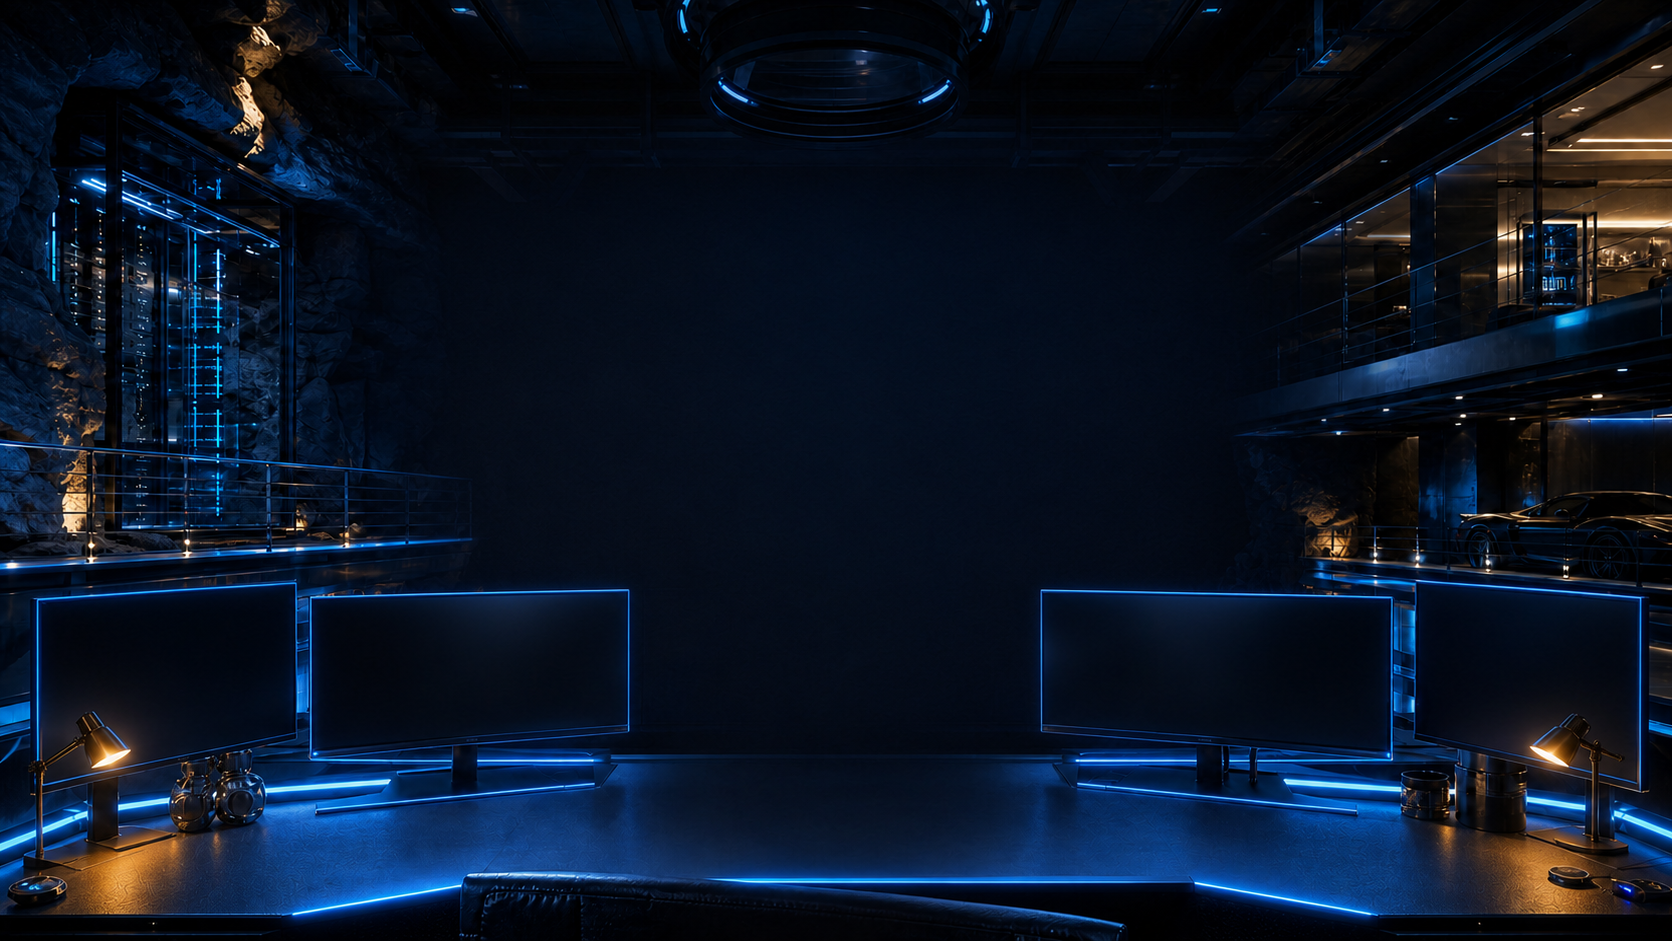
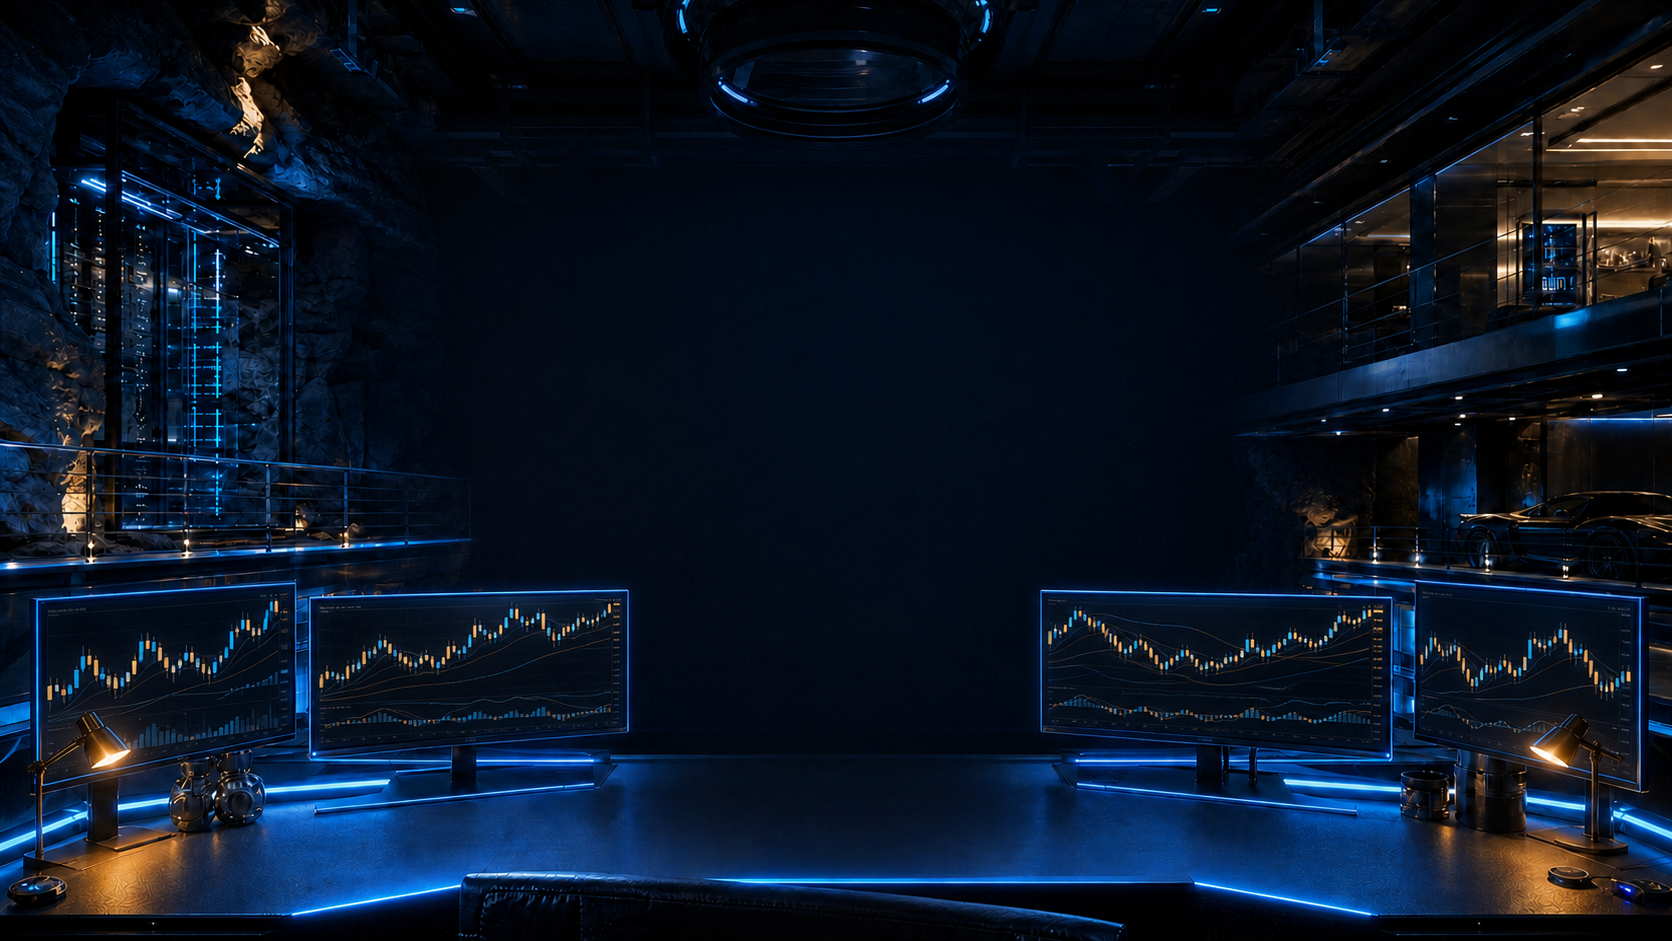
Add files via upload

diff --git a/command-summary.js b/command-summary.js
@@ -6,8 +6,11 @@ const $ = (selector) => document.querySelector(selector);
 const today = new Date().toLocaleDateString("en-CA");
 
 function outcome(trade) {
-  if (trade.trade_status === "Open") return "Open";
-  if (trade.outcome) return trade.outcome;
+  if (String(trade.trade_status || "").trim().toLowerCase() === "open") return "Open";
+  const supplied = String(trade.outcome || "").trim().toLowerCase();
+  if (supplied === "win" || supplied === "small win") return "Win";
+  if (supplied === "loss" || supplied === "small loss") return "Loss";
+  if (supplied === "b/e" || supplied === "be" || supplied === "break even" || supplied === "breakeven") return "B/E";
   if (Number(trade.r_multiple) > 0) return "Win";
   if (Number(trade.r_multiple) < 0) return "Loss";
   return "B/E";
@@ -26,9 +29,9 @@ function render({ missions, trades, projects, content, recoveryLogs, operations,
   if (!target) return;
   const activeMissions = missions.filter((mission) => missionProgress(mission) < 100);
   const priority = activeMissions.find((mission) => mission.priority === "Do now") || activeMissions[0];
-  const closed = trades.filter((trade) => trade.trade_status !== "Open");
-  const wins = closed.filter((trade) => ["Win", "Small win"].includes(outcome(trade))).length;
-  const losses = closed.filter((trade) => ["Loss", "Small loss"].includes(outcome(trade))).length;
+  const closed = trades.filter((trade) => outcome(trade) !== "Open");
+  const wins = closed.filter((trade) => outcome(trade) === "Win").length;
+  const losses = closed.filter((trade) => outcome(trade) === "Loss").length;
   const winRate = wins + losses ? `${Math.round((wins / (wins + losses)) * 100)}%` : "--";
   const activeProjects = projects.filter((project) => project.status === "Active").length;
   const published = content.filter((item) => item.status === "Published").length;

diff --git a/advisor.js b/advisor.js
@@ -16,8 +16,11 @@ function ensurePanel(id, className, anchor, position) {
 }
 
 function outcomeOf(trade) {
-  if (trade.trade_status === "Open") return "Open";
-  if (trade.outcome) return trade.outcome;
+  if (String(trade.trade_status || "").trim().toLowerCase() === "open") return "Open";
+  const supplied = String(trade.outcome || "").trim().toLowerCase();
+  if (supplied === "win" || supplied === "small win") return "Win";
+  if (supplied === "loss" || supplied === "small loss") return "Loss";
+  if (supplied === "b/e" || supplied === "be" || supplied === "break even" || supplied === "breakeven") return "B/E";
   if (Number(trade.r_multiple) > 0) return "Win";
   if (Number(trade.r_multiple) < 0) return "Loss";
   return "B/E";
@@ -34,9 +37,9 @@ function render({ operations, missions, trades }) {
   const completed = operations.length - remaining.length;
   const nextOperation = remaining[0]?.title || "Close the day deliberately and protect recovery.";
   const activeMission = [...missions].filter((mission) => missionProgress(mission) < 100).sort((a, b) => missionProgress(b) - missionProgress(a))[0];
-  const closedTrades = trades.filter((trade) => trade.trade_status !== "Open");
-  const wins = closedTrades.filter((trade) => ["Win", "Small win"].includes(outcomeOf(trade))).length;
-  const losses = closedTrades.filter((trade) => ["Loss", "Small loss"].includes(outcomeOf(trade))).length;
+  const closedTrades = trades.filter((trade) => outcomeOf(trade) !== "Open");
+  const wins = closedTrades.filter((trade) => outcomeOf(trade) === "Win").length;
+  const losses = closedTrades.filter((trade) => outcomeOf(trade) === "Loss").length;
   const decisive = wins + losses;
   const winRate = decisive ? `${Math.round((wins / decisive) * 100)}%` : "awaiting data";
 

diff --git a/detective.js b/detective.js
@@ -22,8 +22,11 @@ function escapeHtml(value = "") {
 }
 
 function resolvedOutcome(trade) {
-  if (trade.trade_status === "Open") return "Open";
-  if (trade.outcome) return trade.outcome;
+  if (String(trade.trade_status || "").trim().toLowerCase() === "open") return "Open";
+  const supplied = String(trade.outcome || "").trim().toLowerCase();
+  if (supplied === "win" || supplied === "small win") return "Win";
+  if (supplied === "loss" || supplied === "small loss") return "Loss";
+  if (supplied === "b/e" || supplied === "be" || supplied === "break even" || supplied === "breakeven") return "B/E";
   if (Number(trade.r_multiple) > 0) return "Win";
   if (Number(trade.r_multiple) < 0) return "Loss";
   return "B/E";
@@ -66,10 +69,10 @@ function applyFilters() {
 }
 
 function renderMetrics(trades) {
-  const closedTrades = trades.filter((trade) => trade.trade_status !== "Open");
+  const closedTrades = trades.filter((trade) => resolvedOutcome(trade) !== "Open");
   const outcomes = closedTrades.map(resolvedOutcome);
-  const wins = outcomes.filter((outcome) => outcome === "Win" || outcome === "Small win").length;
-  const losses = outcomes.filter((outcome) => outcome === "Loss" || outcome === "Small loss").length;
+  const wins = outcomes.filter((outcome) => outcome === "Win").length;
+  const losses = outcomes.filter((outcome) => outcome === "Loss").length;
   const decisiveTrades = wins + losses;
   const average = (items) => items.length ? items.reduce((total, value) => total + Number(value), 0) / items.length : null;
   const averageR = average(closedTrades.filter((trade) => trade.r_multiple != null).map((trade) => trade.r_multiple));

diff --git a/tab-advisory.js b/tab-advisory.js
@@ -15,6 +15,8 @@ function advisoryMarkup([jarvis, alfred], label = "JARVIS / ALFRED PROTOCOL") {
 
 function renderFooters() {
   Object.entries(messages).forEach(([view, message]) => {
+    // Character Systems owns its evidence-note protocol; adding a second footer duplicates it.
+    if (view === "character") return;
     const target = $(`#${view}`);
     if (target && !target.querySelector(":scope > .tab-advisory")) target.insertAdjacentHTML("beforeend", advisoryMarkup(message));
   });
